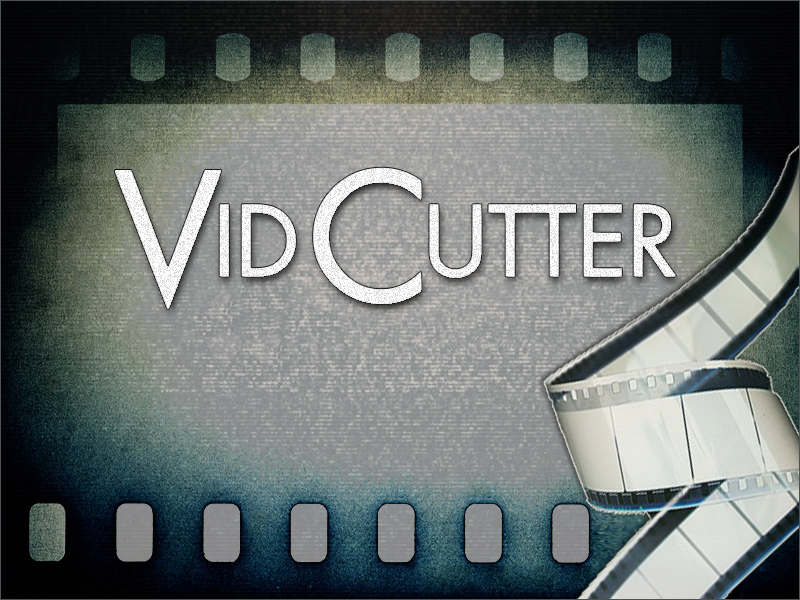
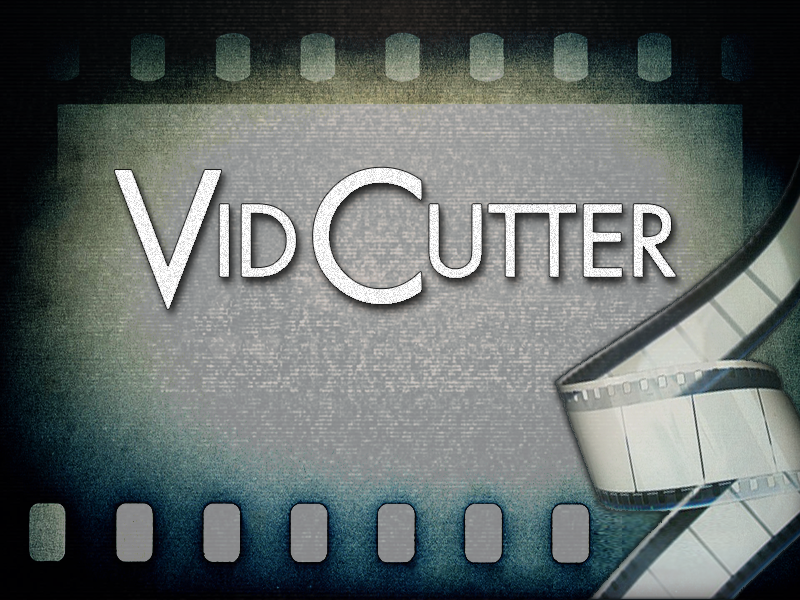
added AppData file and added to setuptools installer + minor improvements to startup-backdrop image

diff --git a/helpers.py b/helpers.py
@@ -81,6 +81,7 @@ class SetupHelpers:
                 ('/usr/share/icons/hicolor/scalable/apps', ['data/icons/hicolor/scalable/apps/vidcutter.svg']),
                 ('/usr/share/pixmaps', ['data/icons/vidcutter.svg']),
                 ('/usr/share/applications', ['data/desktop/vidcutter.desktop']),
+                ('/usr/share/appdata', ['data/appdata/vidcutter.appdata.xml']),
                 ('/usr/share/mime/packages', ['data/mime/x-vidcutter.xml'])
             ]
         return files
@@ -126,20 +127,25 @@ class SetupHelpers:
     And to then run the app directly from source, from the same top-most
     source code folder:
     
-        $ python3 -m vidcutter (append --debug if needed)
+        $ python3 -m vidcutter
+
+    To view all console output for debugging or general interest then
+    append the debug parameter:
+
+        $ python3 -m vidcutter --debug
         
     Make sure you build the extension module AFTER installing the
     dependencies covered above, in particular libmpv and the mpv + python3
     dev headers are all needed for it to compile successfully. Compiled
-    extension modules under vidcutter/libs will similar to:
+    extension modules under vidcutter/libs will look like:
 
         mpv.cpython-36m-x86_64-linux-gnu.so [linux]
         mpv.cp36-win_amd64.pyd              [win32]
         
     Windows users must do all this within a Visual Studio 2015/2017 Native x64/x86
     Developer Command Prompt accessible from your Visual Studio program group
-    in the start menu. Much easier to just grab what I've already built for
-    you direct from here:
+    via the start menu. It's easier to just grab the prebuilt Windows installers
+    directly from:
 
         https://github.com/ozmartian/vidcutter/releases/latest
 ''')

diff --git a/vidcutter/videoslider.py b/vidcutter/videoslider.py
@@ -214,8 +214,7 @@ class VideoSlider(QSlider):
                                               VideoService.ThumbSize.TIMELINE.value.width(), self.width() - self.offset)
         index = list(range(self.minimum(), self.maximum(), step))
         frametimes = list()
-        for msec in index:
-            frametimes.append(self.parent.delta2QTime(msec).toString(self.parent.timeformat))
+        [frametimes.append(self.parent.delta2QTime(msec).toString(self.parent.timeformat)) for msec in index]
 
         class ThumbWorker(QObject):
             completed = pyqtSignal(list)
